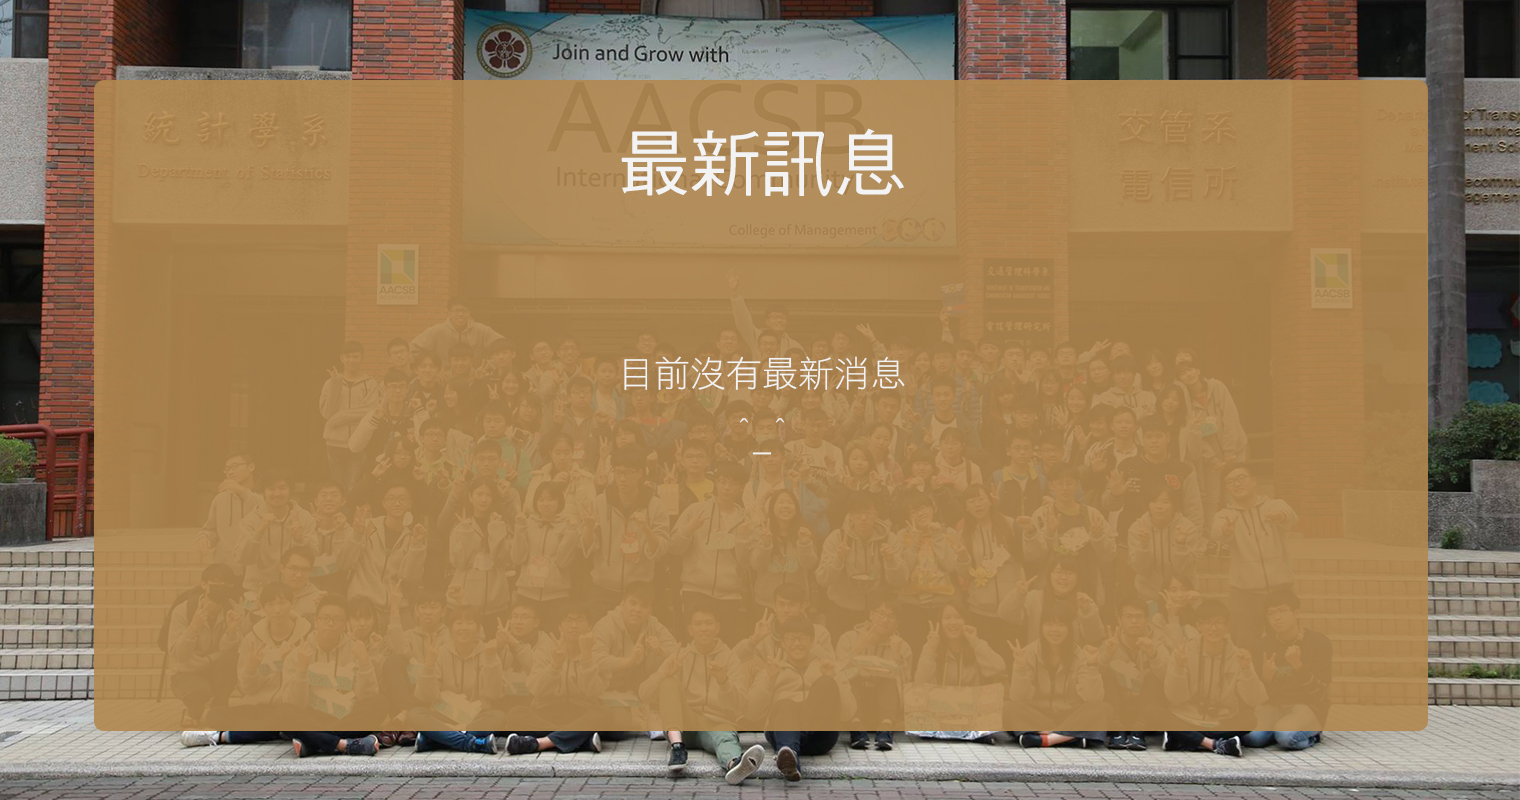
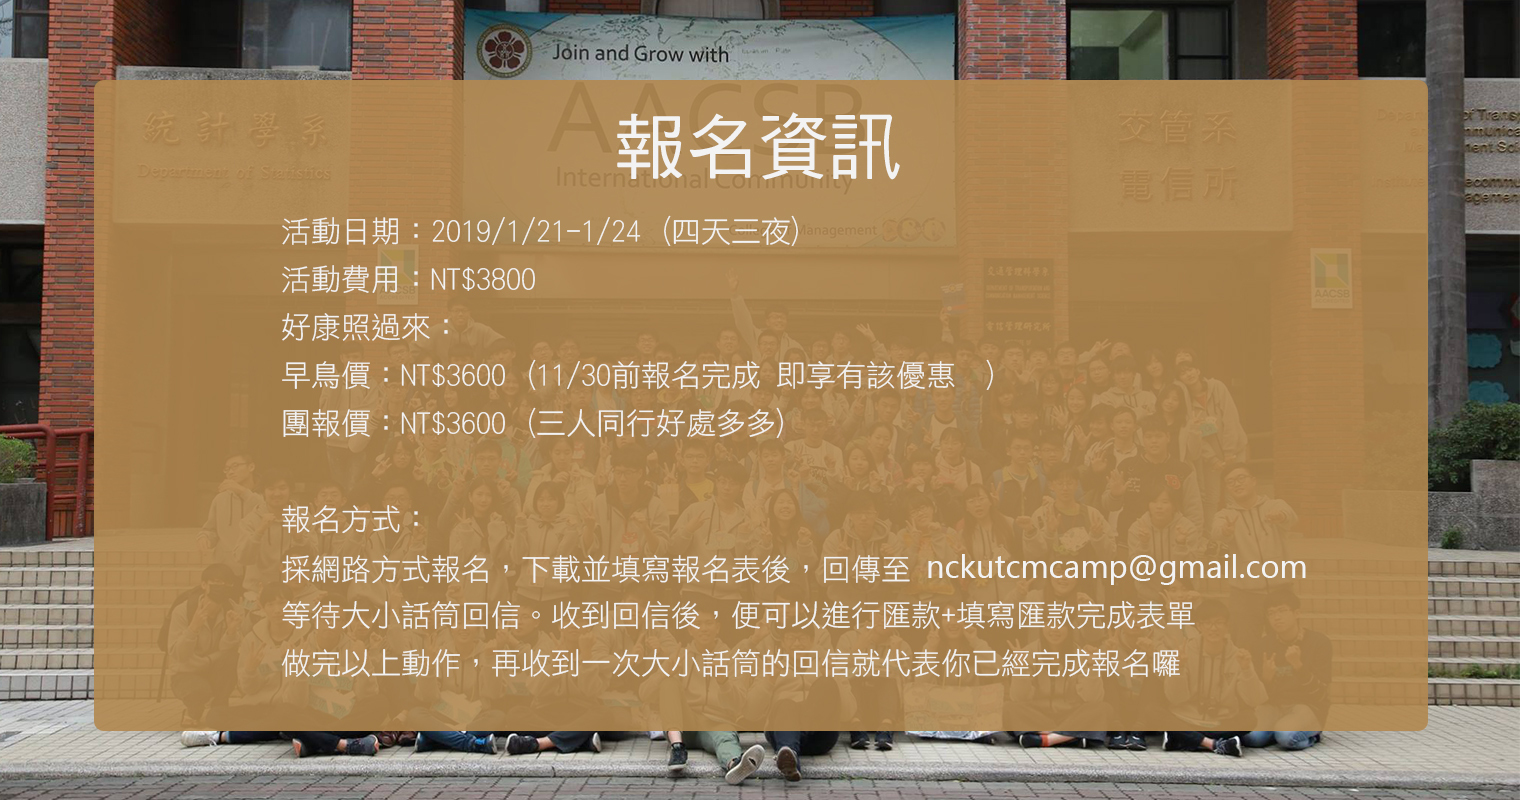
PC version1.0
PC version1.0
moblie has'nt changed

diff --git a/PC/src/about_camp.js b/PC/src/about_camp.js
@@ -8,7 +8,9 @@ import explore_2 from './asset/explore_2.jpg';
 import explore from './asset/explore.jpg';
 import lesson_2 from './asset/lesson_2.jpg';
 import lesson from './asset/lesson.jpg';
-import Buttons from './Buttons'
+import Buttons from './Buttons';
+import Scroll from 'react-scroll';
+var Element    = Scroll.Element;
 
 class about_camp extends Component {
   render() {
@@ -16,26 +18,33 @@ class about_camp extends Component {
       <div className="App">
         <body>
               <h1>旅程的任務是什麼?</h1>
-              
-              <intro>
-                
-                <visit>
+              <Buttons/>
+              <div className="intro">
+              <Element name='visit'>      
+                <visit id='visit' >
                   <img src={visit_2} className='visit'  alt='visit_2'/>
                   <img src={visit} className='visit'  alt='visit'/>              
                 </visit>
-                <play>
+              </Element>
+              <Element name='play'> 
+                <play id='play' >
                   <img src={play_2} className='play' alt='play_2'/>
                   <img src={play} className='play' alt='play'/>             
                 </play>
-                <explore>
+                </Element>
+                <Element name='explore'>
+                <explore id='explore'>
                   <img src={explore_2} className='explore'  alt='explore_2'/>
                   <img src={explore} className='explore'  alt='explore'/>              
                 </explore>
-                <lesson>
+                </Element>
+                <Element name='lesson'>
+                <lesson id='lesson'>
                   <img src={lesson_2} className='lesson'  alt='lesson_2'/>
                   <img src={lesson} className='lesson'  alt='lesson'/>              
                 </lesson>
-              </intro>       
+                </Element>
+              </div>       
         </body>     
       </div>
     );

diff --git a/PC/src/Buttons.js b/PC/src/Buttons.js
@@ -1,13 +1,40 @@
 import React from 'react';
-import train from './asset/buttons/train.png';
+import visit from './asset/visit_l.jpg';
+import play from './asset/play_l.jpg';
+import explore from './asset/explore_l.jpg';
+import lesson from './asset/lesson_l.jpg';
+var Scroll = require('react-scroll');
+var scroller = Scroll.scroller;
 
- class Buttons extends React.Component{   
+class Buttons extends React.Component{
+    scrollToAnchor = (anchorName,time,PicOffset) => {
+        if (anchorName) {
+            scroller.scrollTo(anchorName,{duration: time,
+                delay: 100,
+                smooth: "easeInOutQuart",
+                offset: PicOffset});
+            //let anchorElement = document.getElementById(anchorName);
+            //if(anchorElement) { anchorElement.scrollIntoView(); }
+        }
+      }
+
     render(){
-        return(
-        <button>
-            <img src={train} alt='train'/>
-        </button>
+        const nameOfPic=[
+            {src:visit,alt:'visit',id:'visit' , pos: '-45px' , value:'參訪',offset:50,time:1000 },
+            {src:play , alt: 'play' , id: 'play' ,pos: '-15px' , value:'體驗',offset:850 ,time:1250},
+            {src:explore , alt: 'explore' , id: 'explore' ,pos: '15px' , value:'探索',offset:1650,time:1500},
+            {src:lesson , alt: 'lesson' , id: 'lesson' ,pos: '45px' , value:'學習',offset:2450,time:2000}
+            
+        ];
+        const PicBtn=nameOfPic.map(Pic=>{
+            const PicStyle={position: 'relative', top:'-50px',left:Pic.pos, width: '15vw'};
+            return(
+                    <input type="image" src={Pic.src} alt={Pic.alt} style={PicStyle} onClick={()=>this.scrollToAnchor(Pic.id,Pic.time,Pic.offset)}>
+                    </input>
+                );
+            }
         );
+        return <div>{PicBtn}</div>;
     }
 }
 

diff --git a/PC/src/about_camp.css b/PC/src/about_camp.css
@@ -1,6 +1,4 @@
-body{
-    background-color: #F4E4C3
-}
+
 
 h1{
     z-index: 4; 
@@ -12,19 +10,12 @@ h1{
     height: 200px;
 }
 
-
-intro{
-    position: relative;
-    top:0px;
-    left:-760px;
-}
-
-
-play img{
+play{
     position: absolute;
-    width: 1520px;
-    height: 800px;
-    margin: 800px 0px;
+    width: 100vw;
+    margin: 0px 0px;
+    top: 1390px;
+    left: 0%;
     -webkit-transition: opacity 1s ease-in-out;
     -moz-transition: opacity 1s ease-in-out;
     -o-transition: opacity 1s ease-in-out;
@@ -38,9 +29,10 @@ play img:nth-of-type(2):hover{
 
 visit img{
     position: absolute;
-    width: 1520px;
-    height: 800px;
+    width: 100vw;
     margin: 0px 0px;
+    top: 110%;
+    left: 0%;
     -webkit-transition: opacity 1s ease-in-out;
     -moz-transition: opacity 1s ease-in-out;
     -o-transition: opacity 1s ease-in-out;
@@ -53,9 +45,9 @@ visit img:nth-of-type(2):hover{
 
 explore img{
     position: absolute;
-    width: 1520px;
-    height: 800px;
-    margin: 1600px 0px;
+    width: 100vw;
+    top: 2190px;
+    left: 0%;
     -webkit-transition: opacity 1s ease-in-out;
     -moz-transition: opacity 1s ease-in-out;
     -o-transition: opacity 1s ease-in-out;
@@ -68,9 +60,9 @@ explore img:nth-of-type(2):hover{
 
 lesson img{
     position: absolute;
-    width: 1520px;
-    height: 800px;
-    top: 2400px;
+    width: 100vw;
+    top: 2990px;
+    left: 0%;
     -webkit-transition: opacity 1s ease-in-out;
     -moz-transition: opacity 1s ease-in-out;
     -o-transition: opacity 1s ease-in-out;

diff --git a/PC/src/contact_us.js b/PC/src/contact_us.js
@@ -1,0 +1,51 @@
+import React, { Component } from 'react';
+import fb from './asset/fb.png';
+import gmail from './asset/gmail.png';
+
+class contact_us extends Component {
+    changeLink(anchorName){
+        if (anchorName==='fb') {
+            window.open('https://www.facebook.com/nckutcmcamp/');
+        }
+        else if (anchorName==='gmail') {
+            window.open('mailto:nckutcmcamp@gmail.com');
+        }
+      }
+
+  render() {
+    const h3Style={
+        position: 'relative',
+        width: '55vw',
+        top: '25px',
+        alignItem: 'center',
+        left: '20%',
+        fontFamily:'Microsoft YaHei Light',
+        color: 'rgb(159, 116, 60)',
+        fontSize: '36px'
+    }
+    const fbStyle={
+        position: 'relative',
+        width: '25vw',
+        top: '75px',
+        left: '10%',
+
+    }
+    const gmailStyle={
+        position: 'relative',
+        width: '37.5vw',
+        top: '200px',
+        left: '-15%',
+    }
+    return (
+      <div className="App">
+      <h3  style={h3Style}>聯絡我們</h3>
+        <input type="image" src={fb} style={fbStyle} alt='fb' onClick={this.changeLink.bind(this,'fb')}>
+        </input>
+        <input type="image" src={gmail} style={gmailStyle} alt='gmail' onClick={this.changeLink.bind(this,'gmail')}>
+        </input>    
+      </div>
+    );
+  }
+}
+
+export default contact_us;

diff --git a/PC/src/Nav.js b/PC/src/Nav.js
@@ -6,10 +6,10 @@ import './Nav.css';
 export class Nav extends React.Component{
     render(){
         const NavStrs=[
-            {text:'首頁', value: '', pos:'450px'},
-            {text:'關於交管', value: 'about_TCM', pos:'650px'},
-            {text:'加入旅程', value:'sign', pos:'850px'},
-            {text:'聯絡我們', value: 'contact_us', pos:'1050px'}
+            {text:'首頁', value: '', pos:'25%'},
+            {text:'關於交管', value: 'about_TCM', pos:'40%'},
+            {text:'加入旅程', value:'sign', pos:'55%'},
+            {text:'聯絡我們', value: 'contact_us', pos:'70%'}
         ];
         const NavBtn = NavStrs.map(NavStr=>{
             const NavStyle={position:'absolute',top:'10px',left:NavStr.pos}

diff --git a/PC/src/sign.css b/PC/src/sign.css
@@ -16,7 +16,7 @@ body{
   }
   
   .TimeBar{
-    height: 140px;
+    width: 71.5vw;
     position: relative;
     top:200px;
   }
@@ -31,16 +31,33 @@ body{
 
   cover{
     position: relative;
-    top: -40px;
-    bottom: -5px;
-    height: 2000px;
+    top: -100px;
+    bottom: 0px;
+    
   }
 
   cover img{
     position: relative;
     width: 100vw;
-    margin:0px -760px;
     height: auto;
+  }
+
+  .form{
+    position: absolute;
+    top:1029px;
+    left: 29%;
+    color: white;
+    text-decoration: underline;
+    font-family: '華康細黑體';
+  }
+
+  .pay{
+    position: absolute;
+    top:1029px;
+    left: 40%;
+    color: white;
+    text-decoration: underline;
+    font-family: '華康細黑體';
   }
 
   @keyframes jump{

diff --git a/PC/src/index.js b/PC/src/index.js
@@ -5,6 +5,7 @@ import App from './App';
 import about_camp from './about_camp.js';
 import sign from './sign.js';
 import about_tcm from './about_tcm';
+import contact_us from './contact_us';
 import * as serviceWorker from './serviceWorker';
 import { Router, Route,  hashHistory ,IndexRoute } from 'react-router';
 
@@ -16,7 +17,7 @@ ReactDOM.render(
         <Route path="about_camp" component={about_camp}/>
         <Route path="about_tcm" component={about_tcm}/>
         <Route path="sign" component={sign}/>
-        <Route path="contact_us" component={about_tcm}/> 
+        <Route path="contact_us" component={contact_us}/> 
       </Route>
     </Router>,
    document.getElementById('root'));

diff --git a/PC/src/App.css b/PC/src/App.css
@@ -3,16 +3,16 @@
 }
 
 .App-logo {
-  height: 150px;
+  height: 8vw;
   position: absolute;
   top: 50px;
-  left: 0px;
+  left: 5%;
 }
 
 .header-pic {
   align-items: center;
   justify-content: center;
-  height: 250px;
+  width: 35vw;
   top:0px; 
 }
 
@@ -20,7 +20,8 @@ header{
   position: relative;
   top:0px;
   background-color: rgb(159, 116, 60);
-  height: 250px;
+  width: 100vw;
+
 }
 
 
@@ -33,5 +34,9 @@ Nav{
 .ContactBar{
   position: absolute;
   bottom: 0px;
+}
+
+body{
+  background-color: #F4E4C3
 }
 

diff --git a/PC/src/sign.js b/PC/src/sign.js
@@ -15,7 +15,9 @@ class sign extends Component {
           </p>
           <cover>
             <img src={cover} alt="cover"/>
-          </cover>        
+          </cover>  
+            <a id="form" className="form" href="https://goo.gl/nFHMU1">報名表單連結</a>
+            <a id="pay" className="pay" href="https://goo.gl/nFHMU1">匯款完成表單連結</a>      
         </body>          
       </div>
     );

diff --git a/PC/src/App.js b/PC/src/App.js
@@ -13,7 +13,9 @@ class App extends Component {
           <img src={icon} className="App-logo" alt="logo" />      
           <img src={header_pic} className="header-pic" alt="headPage" /> 
         </header>
+        <body>
         {this.props.children}
+        </body>
       </div>
     );
   }
